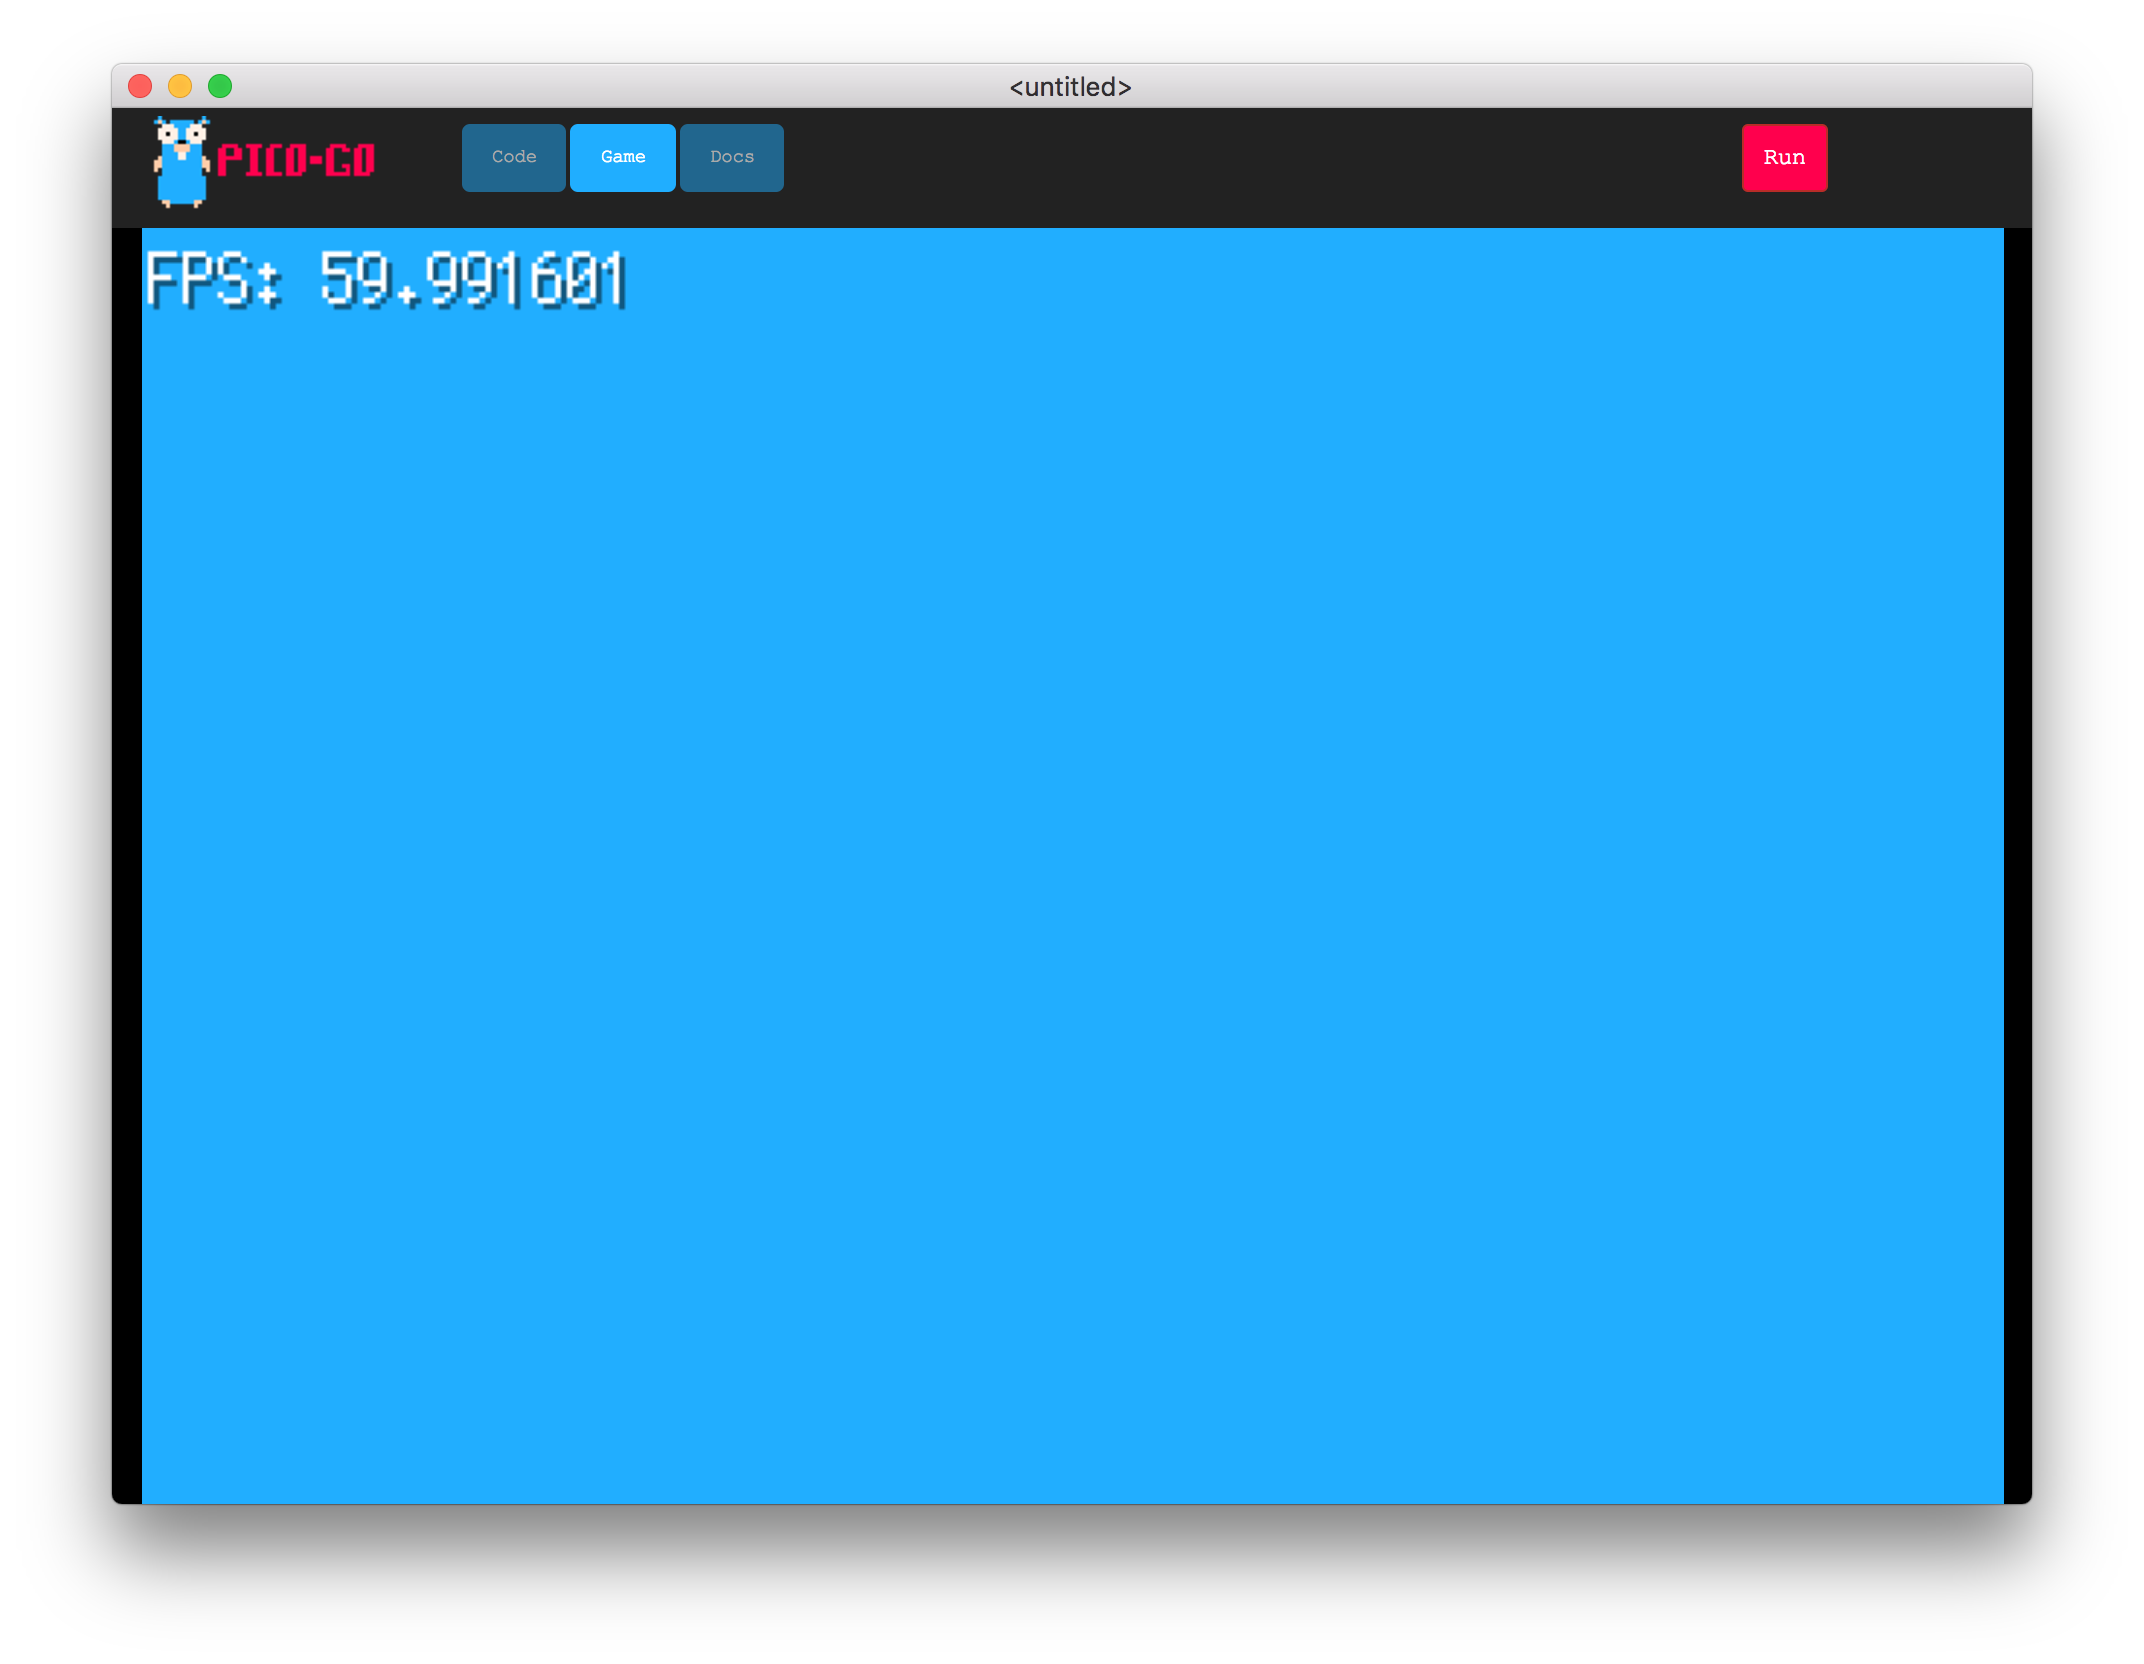
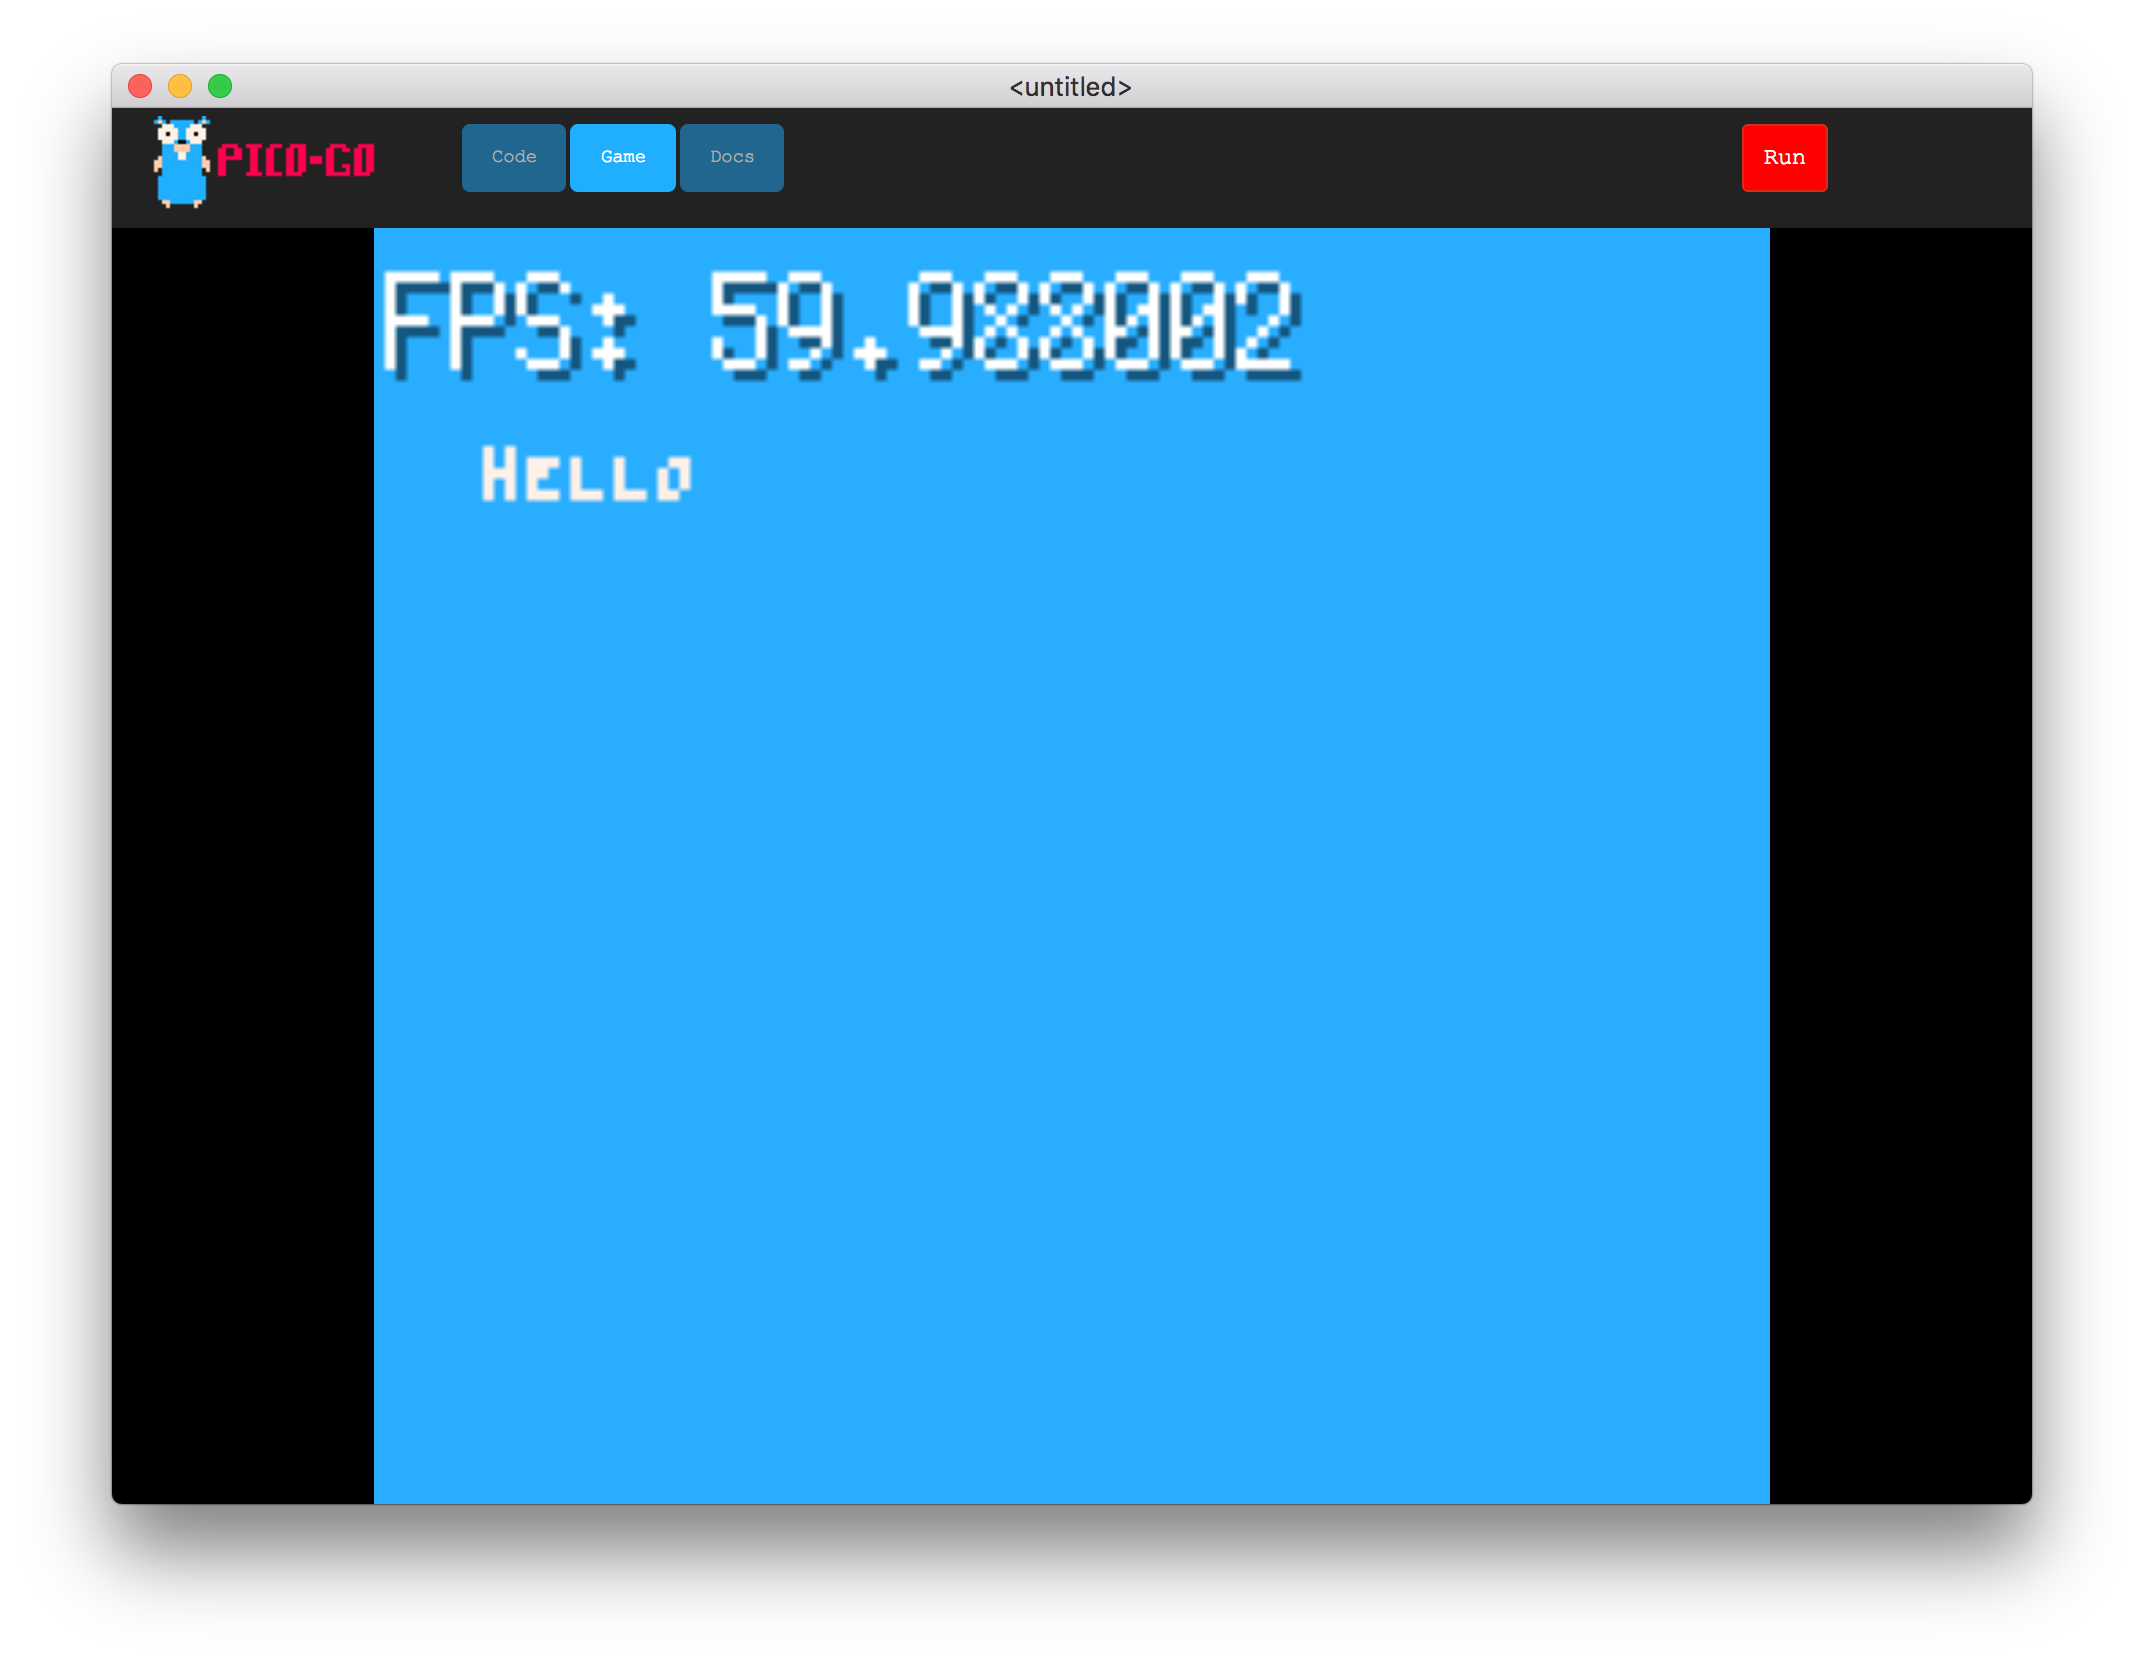
Using gen-main in all examples

Changed region(s): [[0.0625, 0.125, 0.625, 0.9062], [0.8125, 0.0625, 0.9375, 0.9062]]

diff --git a/resources/app/generated-docs/example/demo-01/demo-01.html b/resources/app/generated-docs/example/demo-01/demo-01.html
@@ -171,9 +171,7 @@
 
 <span style="color:#75715e">/*
 </span><span style="color:#75715e">	This is a simple demo project to show you how to use pico-go
-</span><span style="color:#75715e">
 </span><span style="color:#75715e">	Copyright 2018 @telecoda
-</span><span style="color:#75715e">
 </span><span style="color:#75715e">*/</span>
 
 <span style="color:#f92672">import</span> <span style="color:#e6db74">&#34;github.com/telecoda/pico-go-electron/console&#34;</span>
@@ -181,6 +179,9 @@
 <span style="color:#66d9ef">const</span> (
 	<span style="color:#75715e">// set console type to one of the predefined consoles
 </span><span style="color:#75715e"></span>	<span style="color:#a6e22e">consoleType</span> = <span style="color:#a6e22e">console</span>.<span style="color:#a6e22e">PICO8</span>
+	<span style="color:#75715e">// define these vars to be used in javascript canvas scaling code
+</span><span style="color:#75715e"></span>	<span style="color:#a6e22e">screenWidth</span>  = <span style="color:#ae81ff">128</span>
+	<span style="color:#a6e22e">screenHeight</span> = <span style="color:#ae81ff">128</span>
 )
 
 <span style="color:#66d9ef">type</span> <span style="color:#a6e22e">cartridge</span> <span style="color:#66d9ef">struct</span> {

diff --git a/docs/content/example/drawing/gen-main.go b/docs/content/example/drawing/gen-main.go
@@ -1,0 +1,31 @@
+package main
+
+import (
+	"fmt"
+
+	"github.com/telecoda/pico-go-electron/console"
+)
+
+/*
+	This is the generated bootstrap code for running a pico-go cartridge.
+
+	Don't change any of this code, you shouldn't even really be seeing it, I guess you're the curious type.
+*/
+
+func NewCart() console.Cartridge {
+	return &cartridge{
+		BaseCartridge: console.NewBaseCart(),
+	}
+}
+
+func main() {
+	cart := NewCart()
+	if err := console.Init(consoleType); err != nil {
+		fmt.Printf("Failed to init console: %s\n", err)
+		return
+	}
+	if err := console.Run(cart); err != nil {
+		fmt.Printf("Failed to run cartridge: %s\n", err)
+		return
+	}
+}

diff --git a/docs/content/example/starfield/gen-main.go b/docs/content/example/starfield/gen-main.go
@@ -1,0 +1,31 @@
+package main
+
+import (
+	"fmt"
+
+	"github.com/telecoda/pico-go-electron/console"
+)
+
+/*
+	This is the generated bootstrap code for running a pico-go cartridge.
+
+	Don't change any of this code, you shouldn't even really be seeing it, I guess you're the curious type.
+*/
+
+func NewCart() console.Cartridge {
+	return &cartridge{
+		BaseCartridge: console.NewBaseCart(),
+	}
+}
+
+func main() {
+	cart := NewCart()
+	if err := console.Init(consoleType); err != nil {
+		fmt.Printf("Failed to init console: %s\n", err)
+		return
+	}
+	if err := console.Run(cart); err != nil {
+		fmt.Printf("Failed to run cartridge: %s\n", err)
+		return
+	}
+}

diff --git a/resources/app/generated-docs/example/drawing/gen-main.go b/resources/app/generated-docs/example/drawing/gen-main.go
@@ -1,0 +1,31 @@
+package main
+
+import (
+	"fmt"
+
+	"github.com/telecoda/pico-go-electron/console"
+)
+
+/*
+	This is the generated bootstrap code for running a pico-go cartridge.
+
+	Don't change any of this code, you shouldn't even really be seeing it, I guess you're the curious type.
+*/
+
+func NewCart() console.Cartridge {
+	return &cartridge{
+		BaseCartridge: console.NewBaseCart(),
+	}
+}
+
+func main() {
+	cart := NewCart()
+	if err := console.Init(consoleType); err != nil {
+		fmt.Printf("Failed to init console: %s\n", err)
+		return
+	}
+	if err := console.Run(cart); err != nil {
+		fmt.Printf("Failed to run cartridge: %s\n", err)
+		return
+	}
+}

diff --git a/resources/app/generated-docs/example/starfield/gen-main.go b/resources/app/generated-docs/example/starfield/gen-main.go
@@ -1,0 +1,31 @@
+package main
+
+import (
+	"fmt"
+
+	"github.com/telecoda/pico-go-electron/console"
+)
+
+/*
+	This is the generated bootstrap code for running a pico-go cartridge.
+
+	Don't change any of this code, you shouldn't even really be seeing it, I guess you're the curious type.
+*/
+
+func NewCart() console.Cartridge {
+	return &cartridge{
+		BaseCartridge: console.NewBaseCart(),
+	}
+}
+
+func main() {
+	cart := NewCart()
+	if err := console.Init(consoleType); err != nil {
+		fmt.Printf("Failed to init console: %s\n", err)
+		return
+	}
+	if err := console.Run(cart); err != nil {
+		fmt.Printf("Failed to run cartridge: %s\n", err)
+		return
+	}
+}

diff --git a/docs/content/example/demo-01/gen-main.go b/docs/content/example/demo-01/gen-main.go
@@ -1,0 +1,30 @@
+/*
+	This is the generated bootstrap code for running a pico-go cartridge.
+
+	Don't change any of this code, you shouldn't even really be seeing it, I guess you're the curious type.
+*/
+package main
+
+import (
+	"fmt"
+
+	"github.com/telecoda/pico-go-electron/console"
+)
+
+func NewCart() console.Cartridge {
+	return &cartridge{
+		BaseCartridge: console.NewBaseCart(),
+	}
+}
+
+func main() {
+	cart := NewCart()
+	if err := console.Init(consoleType); err != nil {
+		fmt.Printf("Failed to init console: %s\n", err)
+		return
+	}
+	if err := console.Run(cart); err != nil {
+		fmt.Printf("Failed to run cartridge: %s\n", err)
+		return
+	}
+}

diff --git a/resources/app/generated-docs/example/demo-01/gen-main.go b/resources/app/generated-docs/example/demo-01/gen-main.go
@@ -1,0 +1,30 @@
+/*
+	This is the generated bootstrap code for running a pico-go cartridge.
+
+	Don't change any of this code, you shouldn't even really be seeing it, I guess you're the curious type.
+*/
+package main
+
+import (
+	"fmt"
+
+	"github.com/telecoda/pico-go-electron/console"
+)
+
+func NewCart() console.Cartridge {
+	return &cartridge{
+		BaseCartridge: console.NewBaseCart(),
+	}
+}
+
+func main() {
+	cart := NewCart()
+	if err := console.Init(consoleType); err != nil {
+		fmt.Printf("Failed to init console: %s\n", err)
+		return
+	}
+	if err := console.Run(cart); err != nil {
+		fmt.Printf("Failed to run cartridge: %s\n", err)
+		return
+	}
+}

diff --git a/docs/content/example/demo-01/demo-01.go b/docs/content/example/demo-01/demo-01.go
@@ -2,9 +2,7 @@ package main
 
 /*
 	This is a simple demo project to show you how to use pico-go
-
 	Copyright 2018 @telecoda
-
 */
 
 import "github.com/telecoda/pico-go-electron/console"
@@ -12,6 +10,9 @@ import "github.com/telecoda/pico-go-electron/console"
 const (
 	// set console type to one of the predefined consoles
 	consoleType = console.PICO8
+	// define these vars to be used in javascript canvas scaling code
+	screenWidth  = 128
+	screenHeight = 128
 )
 
 type cartridge struct {

diff --git a/resources/app/generated-docs/example/demo-01/demo-01.go b/resources/app/generated-docs/example/demo-01/demo-01.go
@@ -2,9 +2,7 @@ package main
 
 /*
 	This is a simple demo project to show you how to use pico-go
-
 	Copyright 2018 @telecoda
-
 */
 
 import "github.com/telecoda/pico-go-electron/console"
@@ -12,6 +10,9 @@ import "github.com/telecoda/pico-go-electron/console"
 const (
 	// set console type to one of the predefined consoles
 	consoleType = console.PICO8
+	// define these vars to be used in javascript canvas scaling code
+	screenWidth  = 128
+	screenHeight = 128
 )
 
 type cartridge struct {

diff --git a/constants.go b/constants.go
@@ -22,6 +22,9 @@ import "github.com/telecoda/pico-go-electron/console"
 const (
 	// set console type to one of the predefined consoles
 	consoleType = console.PICO8
+	// define these vars to be used in javascript canvas scaling code
+	screenWidth  = 128
+	screenHeight = 128
 )
 
 type cartridge struct {
